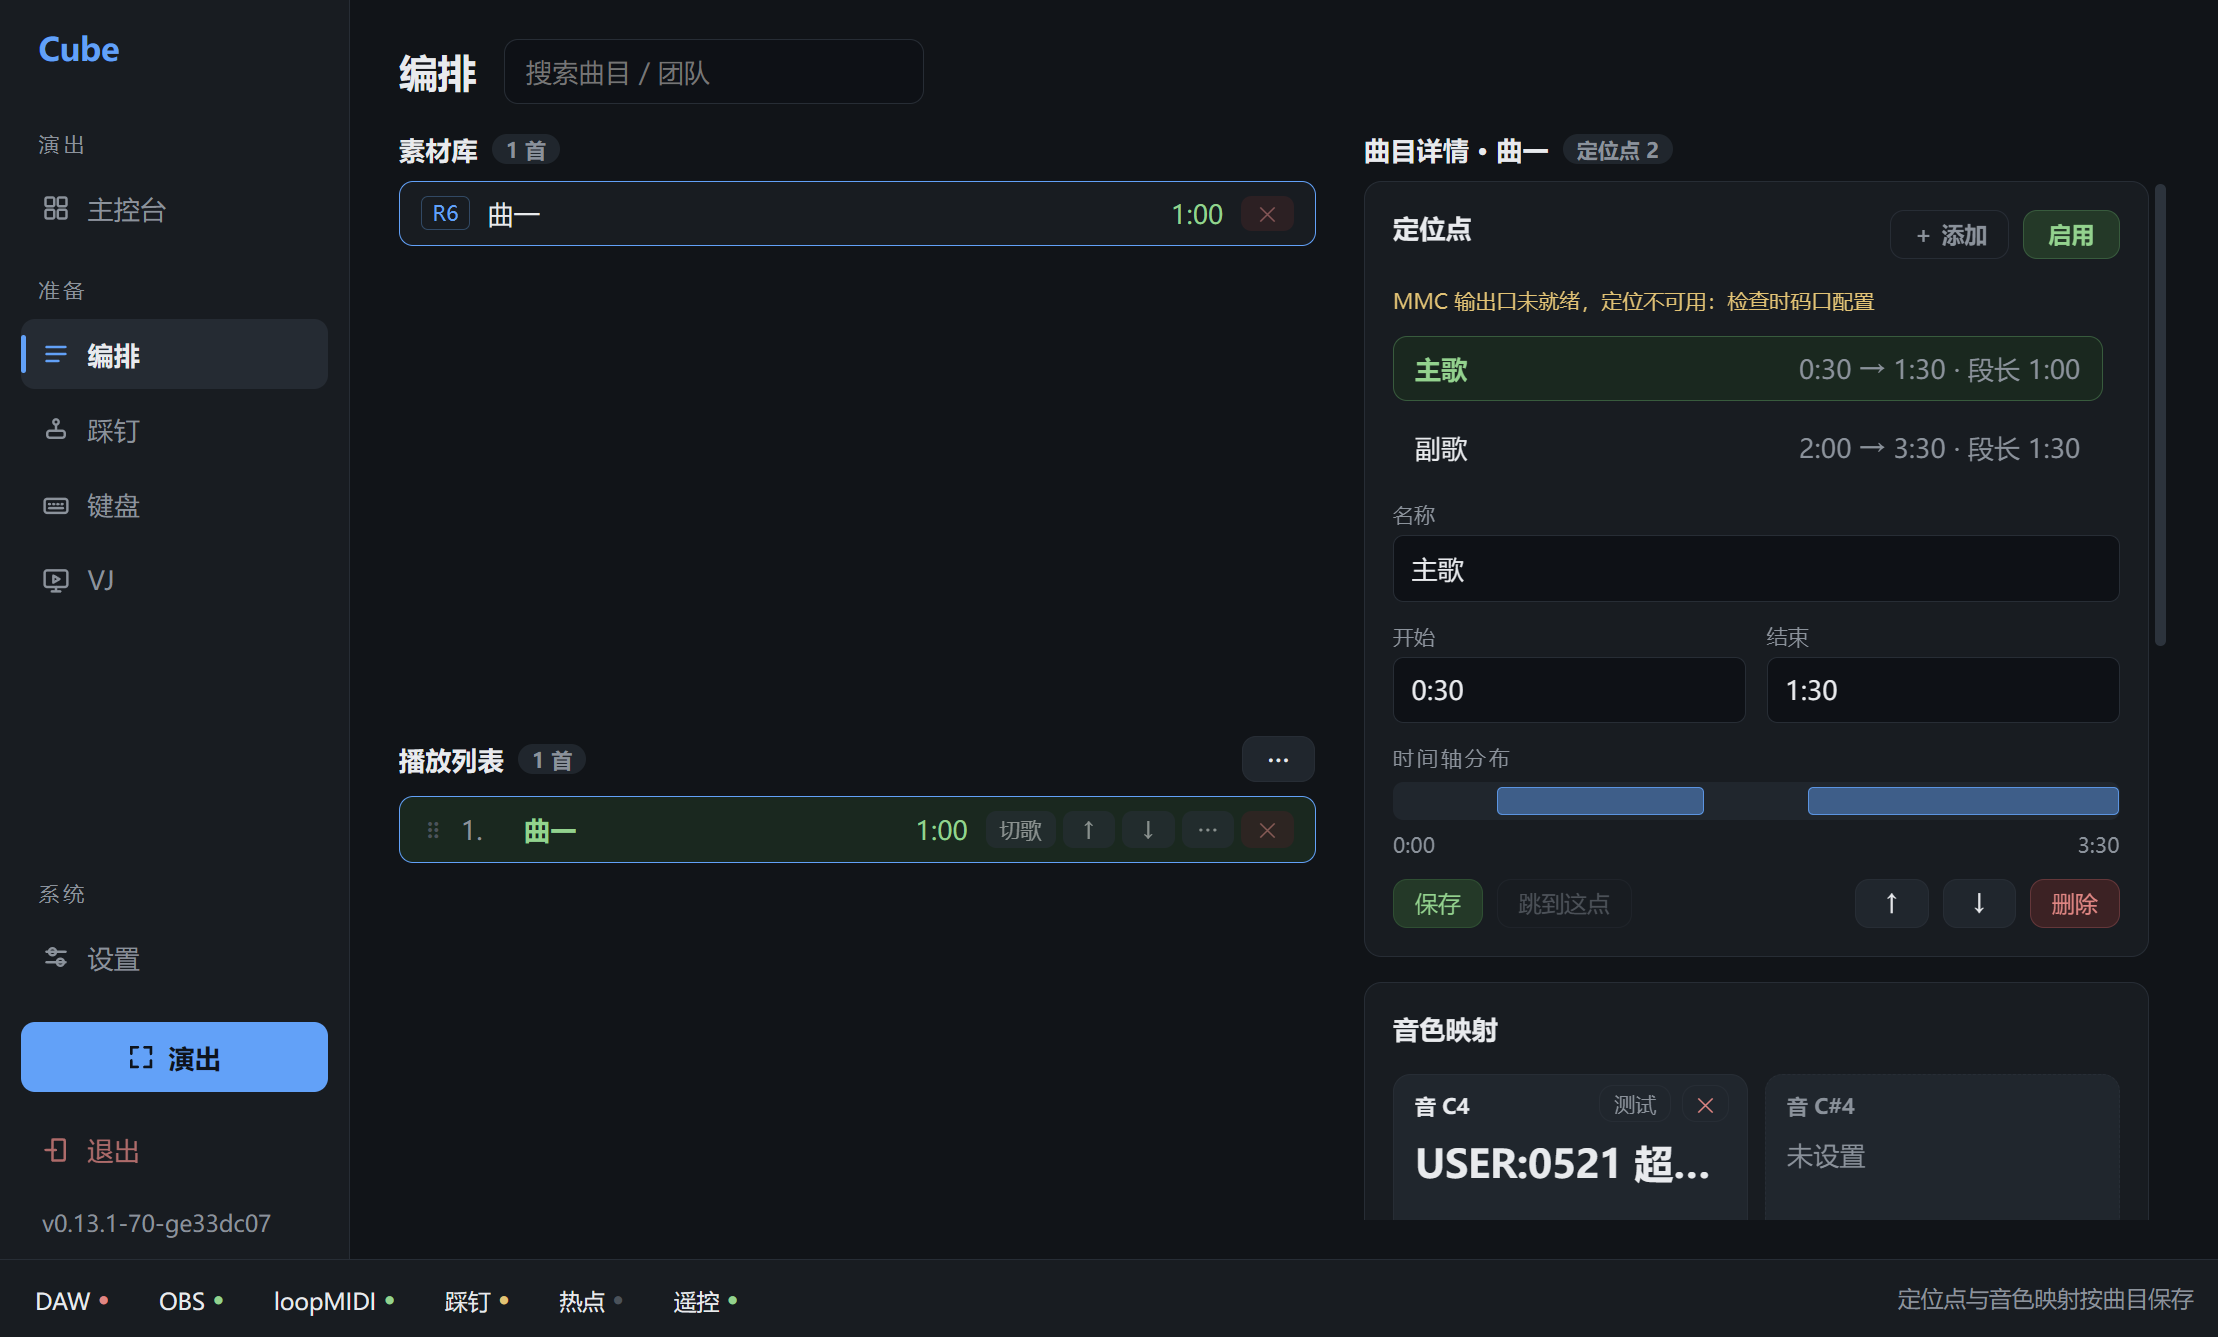
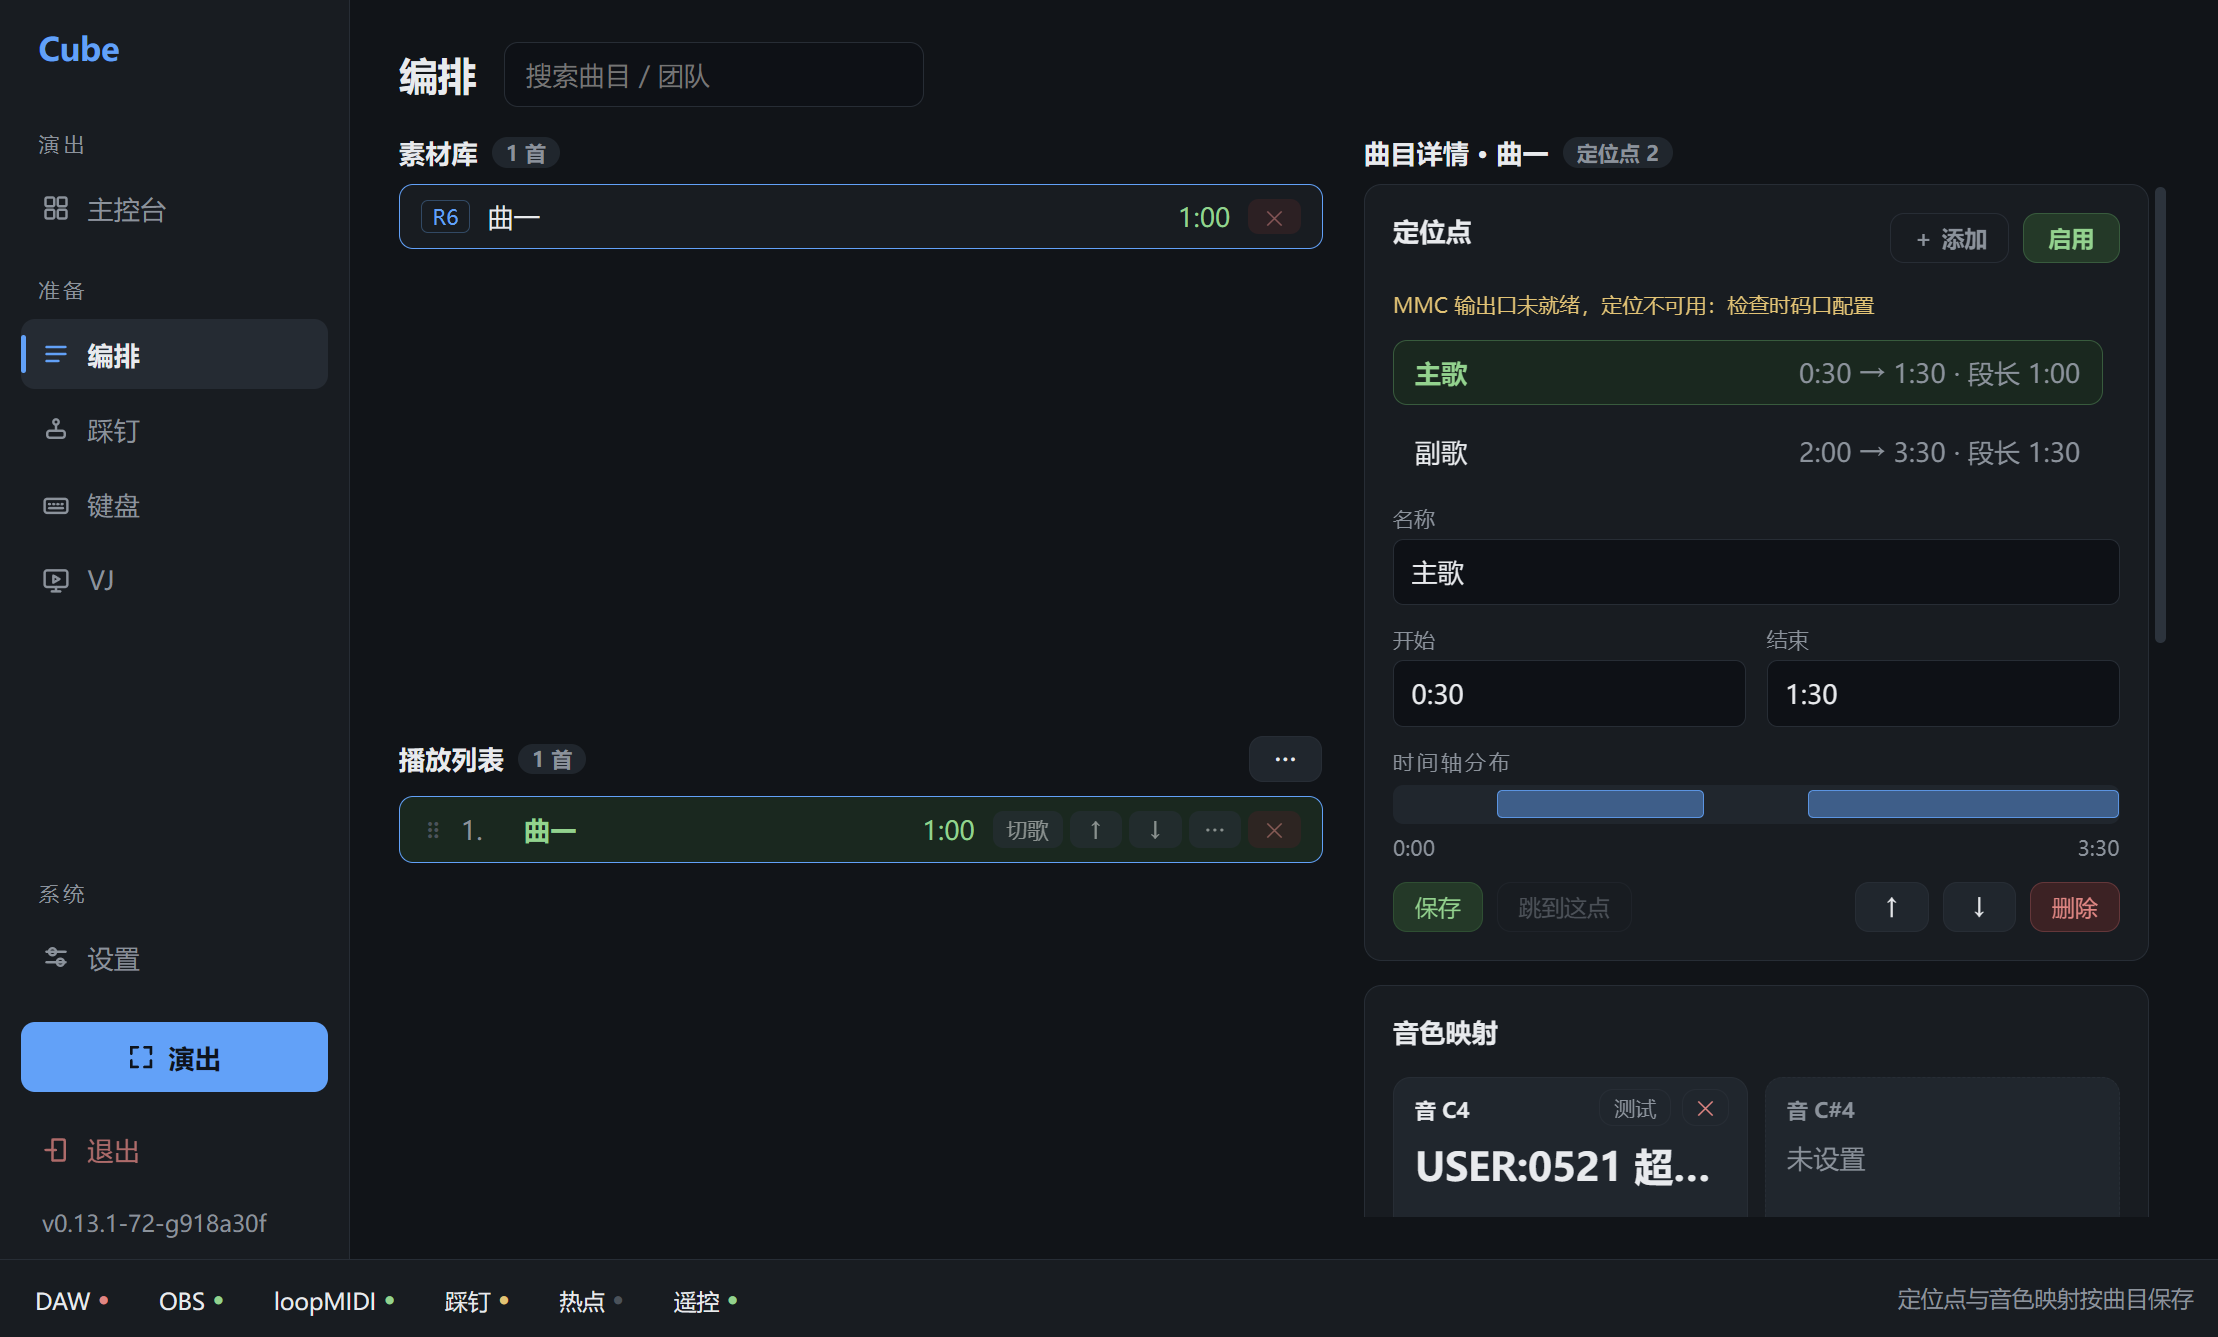
fix: 网格行距与对齐版式五处
- 网格行距 20→12（.card .field margin 与 row-gap 叠加；特异度提级防
  后位反杀）；.card p.dim 收编 UA 默认 margin
- .card h3 顶对齐（高控件不再把卡头文字下推，全站卡头文字顶全等）
- 离刻度归编：.cols 列距 18→14、.page 顶距 22→24；slotcard 口径分裂
  消除；vj-cell padding 随 slot；pop 校验占位统一+空态不占位
- 拖拽指示线改 box-shadow inset（不再改变行高）；窄窗 page-foot 提示
  隐藏（跨页一行高）；踩钉页补 84px 底储备
- probe 启动前主动清扫残留调试实例（残留窗口曾致成批假 FAIL）

diff --git a/webapp/app.css b/webapp/app.css
@@ -116,8 +116,8 @@ input:focus-visible, select:focus-visible {
   padding: var(--s4);
 }
 .card h3 { margin: 0 0 var(--s4); font-size: var(--f-md); display: flex;
-  align-items: center; gap: var(--s2); }
-.card h3 .h3-note { margin-left: auto; font-size: var(--f-xs);
+  align-items: flex-start; gap: var(--s2); }   /* 高控件顶对齐：标题文字顶=16 */
+.card h3 .h3-note { margin-left: auto; margin-top: 3px; font-size: var(--f-xs);
   font-weight: 400; color: var(--dim); }
 .card h3 .tgl { margin-left: auto; }
 .card h3 .h3-note + .tgl, .card h3 .tgl + .h3-note { margin-left: 0; }
@@ -155,10 +155,13 @@ input:focus-visible, select:focus-visible {
 .field .wide, input.wide { width: 100%; }
 .field input.num, input.num { width: 90px; }
 .grid2 { display: grid; grid-template-columns: 1fr 1fr; gap: var(--s3) var(--s4); }
+/* 网格行距全交 gap：清掉 .card .field 的 8px margin（否则行距 8+12=20）。
+   特异度须压过同值的 .card .field（:567 后位同级会反杀） */
+.card .grid2 .field, .card .grid3 .field { margin-bottom: 0; }
 .grid2 .field.wide, .grid2 .wide { grid-column: 1 / -1; }
 /* 网格内独立开关沉底：与同行 field 的输入框底线对齐（field 自带
    margin-bottom 8，开关补同值才能真正对齐输入框底边） */
-.grid2 .switch.end { align-self: end; margin-bottom: 8px; }
+.grid2 .switch.end { align-self: end; }
 .field-row { display: flex; gap: var(--s3); }
 .field-row .field { flex: 1; }
 input.invalid { border-color: var(--err) !important; }
@@ -235,7 +238,7 @@ input.invalid { border-color: var(--err) !important; }
 
 /* ---- 主区 / 页面 ---- */
 #main { flex: 1; min-width: 0; overflow: auto; }
-.page { display: none; padding: 22px 28px; max-width: 1400px; }
+.page { display: none; padding: var(--s6) 28px; max-width: 1400px; }
 #p-settings { padding-bottom: 84px; }
 .page.on { display: block; animation: page-in 160ms var(--ease); }
 .page > h2 { margin: 0 0 var(--s4); font-size: var(--f-xl); }
@@ -409,7 +412,7 @@ input.invalid { border-color: var(--err) !important; }
   height: 100%; min-height: 420px; }
 .cols { display: grid; grid-template-columns: 1fr 460px;
   grid-template-rows: minmax(0, 1.2fr) minmax(0, 1fr);
-  gap: 14px 18px; flex: 1; min-height: 0; }
+  gap: 14px; flex: 1; min-height: 0; }
 .cols .col[data-col="lib"] { grid-area: 1 / 1; }
 .cols .col[data-col="pl"] { grid-area: 2 / 1; }
 .cols .col#col-dt { grid-area: 1 / 2 / 3 / 3; }
@@ -431,8 +434,8 @@ input.invalid { border-color: var(--err) !important; }
 .drag { color: #4a525b; cursor: grab; flex: none; padding: 0 2px;
   font-size: var(--f-sm); letter-spacing: -1px; }
 .row.dragging { opacity: .4; }
-.row.drop-above { border-top: 2px solid var(--accent); }
-.row.drop-below { border-bottom: 2px solid var(--accent); }
+.row.drop-above { box-shadow: inset 0 2px 0 var(--accent); }
+.row.drop-below { box-shadow: inset 0 -2px 0 var(--accent); }
 .row .ops { display: flex; gap: 4px; opacity: .55;
   transition: opacity var(--t-fast) var(--ease); }
 .row:hover .ops, .row:focus-within .ops { opacity: 1; }
@@ -554,7 +557,10 @@ input.invalid { border-color: var(--err) !important; }
 .bind-row.learning { border-color: var(--err); background: #241417; }
 .bind-row.learning .b-bind { color: var(--err); }
 .warn-txt { color: var(--warn); }
+.card p.dim { margin: var(--s3) 0 0; }   /* UA p margin 1em 会虚大树卡距 */
 
+
+#p-pedal { padding-bottom: 84px; }   /* 页脚 sticky 条预留，与 kbd/vj/settings 一致 */
 
 /* ---- 键盘页 ---- */
 /* 状态卡：当前曲音色配置一对大数字 + 最近切换，替代散乱 pill 行 */
@@ -569,7 +575,7 @@ input.invalid { border-color: var(--err) !important; }
 
 .card .field { margin-bottom: var(--s2); }
 .card .field:last-child { margin-bottom: 0; }
-.slotcard { margin-bottom: var(--s3); margin-top: 14px; }
+.slotcard { margin-top: 14px; }   /* 下距由 page-foot margin 主导 */
 /* 全局移调：两琴两列，列内音符卡与 VJ 触发槽位同款（.slot.vj-cell 复用，
    hover 动画/键帽/字号全部一致） */
 .shift-cols { display: grid; grid-template-columns: 1fr 1fr; gap: var(--s4); }
@@ -611,7 +617,7 @@ input.invalid { border-color: var(--err) !important; }
 /* VJ 音符↔视频映射网格：与音色槽同款卡片语言（键帽音名+目标+状态副行） */
 .vj-grid { grid-template-columns: repeat(auto-fill, minmax(120px, 1fr));
   gap: 10px; }
-.vj-cell { cursor: default; padding: 9px 10px; }
+.vj-cell { cursor: default; }   /* padding 随 .slot（10px 12px），同语言同值 */
 .vj-empty { grid-column: 1 / -1; }
 .vj-cell .s-note { align-self: flex-start; font-family: Consolas, monospace;
   background: var(--sur-3); border-radius: 4px; padding: 1px 6px; }
@@ -665,6 +671,8 @@ input.invalid { border-color: var(--err) !important; }
   #pt-list { max-height: 34vh; }
   #logcard .log { min-height: 160px; }
   .addr-grid { grid-template-columns: 1fr; }
+  /* 窄屏隐藏生效范围提示：文案长会折行致 page-foot 高度跨页不齐 */
+  .page-foot > span { display: none; }
 }
 
 /* ---- 运行日志卡（主控台页内）：播放中同屏盯状态 ----
@@ -764,7 +772,8 @@ input.invalid { border-color: var(--err) !important; }
 .pop button.primary { background: var(--ok-bg); color: var(--ok); border: 0; }
 .pop button.primary:disabled { opacity: .4; cursor: default; }
 .pop button.danger { background: var(--err-bg); color: var(--err); border: 0; }
-.pop .field-err { font-size: var(--f-xs); color: var(--err); min-height: 14px; }
+.pop .field-err { font-size: var(--f-xs); color: var(--err); min-height: 16px; }
+.pop .field-err:empty { display: none; }   /* 无错误不占位（对齐 #pt-hint 策略） */
 .pop.menu { min-width: 190px; padding: 6px; gap: 2px; }
 .pop.menu .menu-item { width: 100%; text-align: left; border: 0;
   background: none; border-radius: 6px; padding: 8px 12px; cursor: pointer; }

diff --git a/out/probe_ui.py b/out/probe_ui.py
@@ -29,7 +29,20 @@ P = {}          # 断言结果收集
 import socket as _socket
 with _socket.socket() as _s:
     if _s.connect_ex(("127.0.0.1", CDP)) == 0:
-        sys.exit("CDP 端口 %d 被残留实例占用：先结束旧 webui/杀进程再跑" % CDP)
+        # 主动清扫：上一轮 webui 的 WebView2 子进程常不被 terminate 级联，
+        # 残留窗口=对旧代码跑断言（假阳性集中营）。按命令行特征扫杀。
+        subprocess.run(["powershell", "-c",
+            "Get-CimInstance Win32_Process | Where-Object {"
+            "$_.CommandLine -match 'remote-debugging-port=%d' "
+            "-or ($_.Name -match 'python' and "
+            "$_.CommandLine -match 'webui.py')} | "
+            "ForEach-Object { Stop-Process -Id $_.ProcessId -Force "
+            "-ErrorAction SilentlyContinue }" % CDP],
+            capture_output=True, timeout=30)
+        time.sleep(3)
+        with _socket.socket() as _s2:
+            if _s2.connect_ex(("127.0.0.1", CDP)) == 0:
+                sys.exit("CDP 端口 %d 清扫后仍被占用，请手工处理" % CDP)
 
 
 

diff --git a/docs/前端设计评审与改进方案.md b/docs/前端设计评审与改进方案.md
@@ -207,6 +207,34 @@ VJ 联动→「VJ」；主控台为驾驶舱布局无页题（结构性例外）
   （8 处 + 页脚注）。
 - CSS 卫生（静态复核发现）：.dt-inst 死规则、#pt-list/#pt-form 重复
   声明、--bg/--panel/--s8/--f-2xl/--t-mid 死令牌清理。
+### 第四轮间距全面审查（用户令：三角度子代理扫尾，2026-10-27）
+
+三路并行审查（CSS 源码体系 / 截图目视 20 张 / CDP 几何矩阵三态六页），
+基线通过项（14 家族统一、卡头 16、行距族、slot/vj-cell 同值）不再展开，
+发现并处置：
+
+| 类 | 问题 | 处置 |
+|---|---|---|
+| 隐性叠加 | `.card .field` margin 8 × grid2/grid3 row-gap 12 = 行距 20px（踩钉输入设备/VJ 视频联动/设置移动端遥控三处，pt-form 同族事故的网格侧未修版） | `.card .grid2/.grid3 .field` margin 归零（特异度须压过后位 `.card .field`——`.grid2 .field` 同级前位被反杀实测翻车）；`.switch.end` 的 8px 补偿随之删除 |
+| UA margin | `.card p.dim`（联动端口说明/pd-midiport）UA 默认 1em ≈13px 虚大树卡距 | `.card p.dim { margin: var(--s3) 0 0 }` |
+| 离刻度 | `.cols` 列距 18；`.page` 顶距 22 | 18→14（卡距家族）；22→24（--s6） |
+| 口径分裂 | `.slotcard` margin-bottom 12 vs top 14 | 删 bottom，交 page-foot 塌陷 |
+| 同族不同值 | `.vj-cell` padding 9/10 vs `.slot` 10/12（注释自称同语言） | vj-cell padding 随 slot（10/12） |
+| pop 占位 | `.pop .field-err` min-height 14 且无错误常驻占位 | 统一 16 + `:empty` 不占位 |
+| 抖动 | 拖拽 drop-above/below 2px border 改变行高 | box-shadow inset 2px（不占布局） |
+| 窄窗 | page-foot 提示文案折两行致跨页高度不齐 | 媒体查询内隐藏 `.page-foot > span` |
+| 卡头 | 设置「移动端遥控」h3 文字顶 21px（28px tgl 居中下推，全站唯一量化不符） | `.card h3` 顶对齐+h3-note 下沉 3px；四卡头 [17,17,17,17] 实测全等 |
+| 留白 | 踩钉页无 84px 底储备（34 vs 94 跨页不一） | `#p-pedal{padding-bottom:84px}` |
+
+裁决保留（记录不动）：状态卡首内容线跨页 51/36（踩钉卡头有钮行，页内一致
+已满足）；主控台双卡内容线 53/62（日志卡头 29px 工具条，顶对齐正常结果）；
+侧栏/chips 光学裸值。
+工程教训：**同特异度后位反杀第三次实锤**（`.grid2 .field` 前 位于
+`.card .field` 被反杀，dBottom 回弹 8px）——间距归零类规则一律提特异度
+（`.card .grid2 .field`）。验证：measure 12/12、探针 168/168、pytest 172
+（+1 环境 flake）、六页截图目视、dist 冒烟 PASS。目视 20 张全过返工点；
+窄窗 44vh 素材库封顶=平板收敛设计保留。
+
 ### 第四轮间距返工（用户人工复核 9 项 + 全局 2 项，2026-10-27）
 
 用户复核聚焦间距体系（定位点卡头/MMC 行距/时间轴行距与 lbl 粗体/slot
